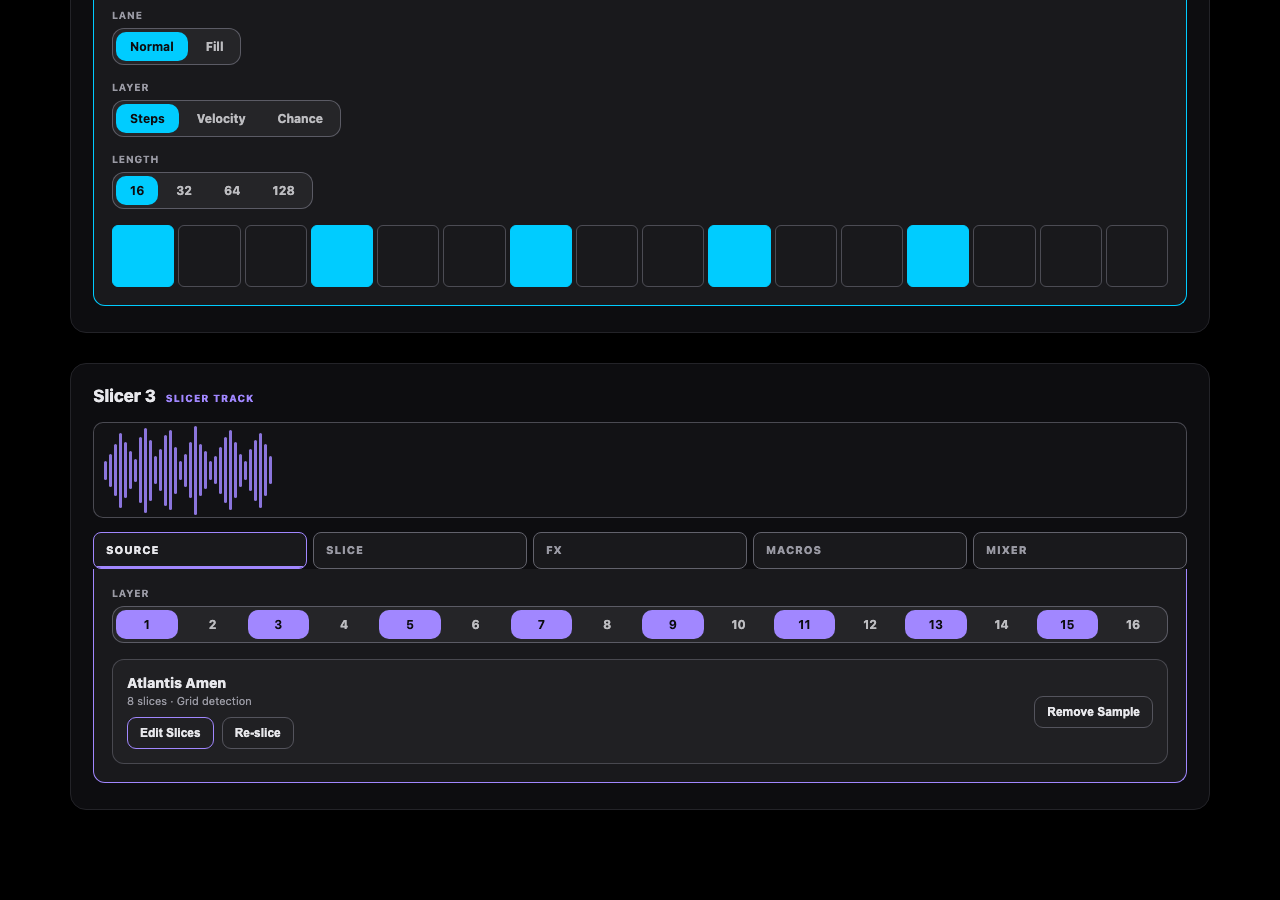
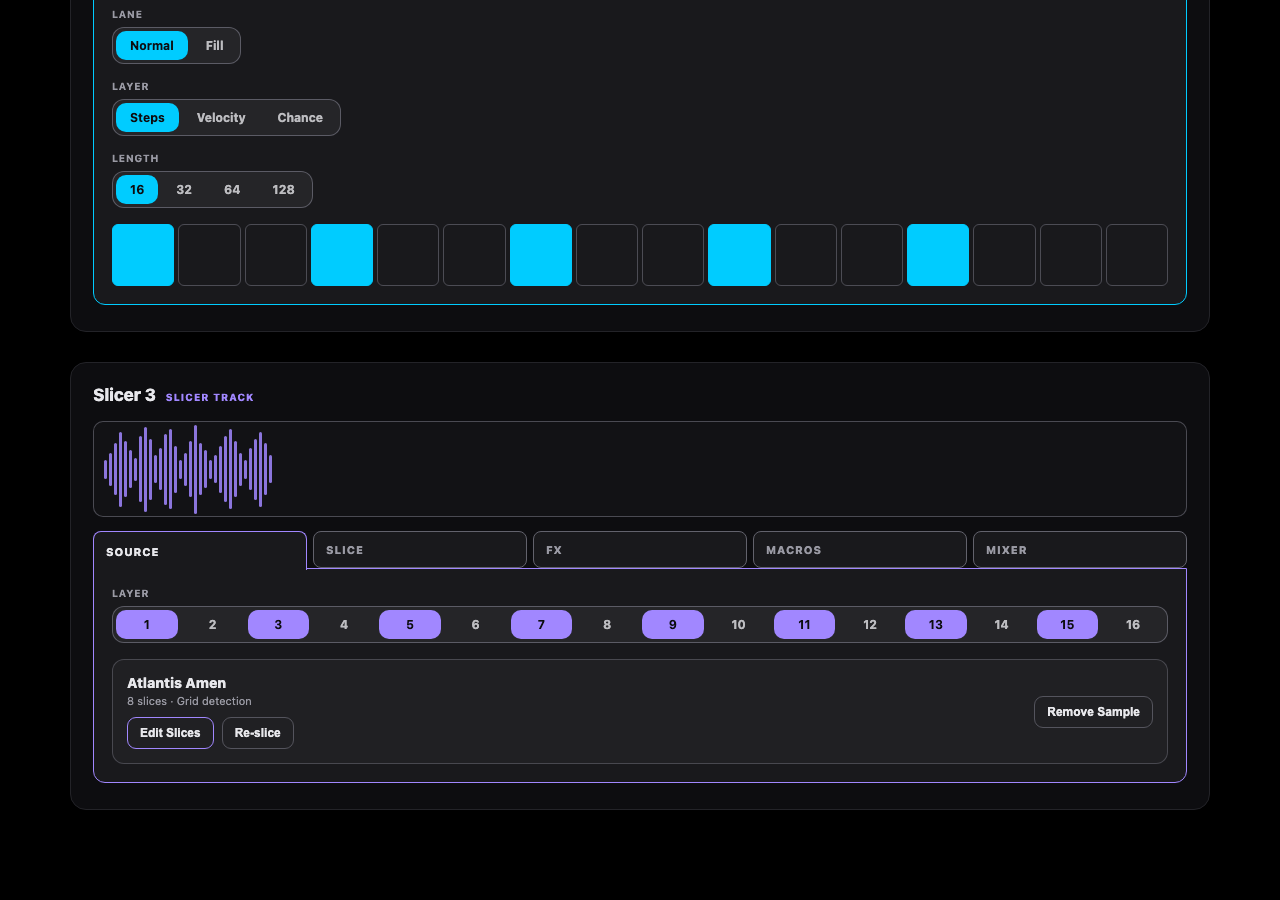
docs(track-view-ia): tab-well connection variants per owner feedback
The strip/well gap read as two artifacts. Variant A is now the seamless
folder-tab form (selected tab's outline flows into the well border, no
line under the active tab); Variant B moves the segmented row inside the
well so no gap exists; new Variant C keeps the original pill look with
the gap but gives the well a full-strength accent border so pill and
container read as one system.

diff --git a/docs/roadmap/track-view-ia/prototypes/08-unified-tab-well-C.html b/docs/roadmap/track-view-ia/prototypes/08-unified-tab-well-C.html
@@ -3,7 +3,7 @@
 <head>
 <meta charset="utf-8">
 <meta name="viewport" content="width=device-width, initial-scale=1">
-<title>Unified Tab Well — Variant B (segmented-primary)</title>
+<title>Unified Tab Well — Variant C (pill tabs + full-accent well border)</title>
 <style>
   :root {
     --ground:#0d0d10; --border:#62626c; --text:#e8e8ec; --muted:#9a9aa4;
@@ -26,24 +26,28 @@
   .surface-head .name { font-size:17px; font-weight:800; }
   .surface-head .kind { font-size:10px; letter-spacing:.1em; text-transform:uppercase; font-weight:800; color:var(--accent); }
 
-  /* primary section grammar in Variant B — solid-thumb segmented control
-     (StudioSegmentedControl), NOT underline tabs, rendered as a header row
-     INSIDE the well so no strip/container gap exists at all. This is the
-     only thing that differs from Variant A. */
-  .tabstrip.seg { display:flex; gap:4px; padding:3px; background:var(--fill1); border:1.5px solid rgba(98,98,108,.9); border-radius:12px; margin-bottom:16px; }
-  .tabstrip.seg .schip { flex:1; border:none; background:transparent; color:rgba(232,232,236,.78); font:inherit; font-size:11px; font-weight:800; letter-spacing:.05em; text-transform:uppercase; padding:10px 8px; border-radius:10px; cursor:pointer; display:flex; align-items:center; justify-content:center; gap:6px; white-space:nowrap; }
-  .tabstrip.seg .schip.active { background:var(--accent); color:var(--ground); }
-  .tabstrip.seg .schip .mini-badge { font-size:9px; font-weight:800; padding:2px 5px; border-radius:6px; background:var(--accent); color:var(--ground); text-transform:none; letter-spacing:0; }
-  .tabstrip.seg .schip.active .mini-badge { background:var(--ground); color:var(--accent); }
+  /* underline tab grammar — StudioSlotTabButton (pill look kept; the gap
+     to the well below is intentional in this variant) */
+  .tabstrip { display:flex; gap:6px; margin-bottom:5px; }
+  .tab { flex:1; background:var(--fill1); border:1px solid var(--border); border-radius:8px; padding:0; cursor:pointer; color:var(--muted); font:inherit; overflow:hidden; text-align:left; }
+  .tab .row { display:flex; align-items:center; gap:8px; padding:10px 12px; }
+  .tab .lbl { font-size:11px; letter-spacing:.08em; font-weight:800; text-transform:uppercase; color:var(--muted); }
+  .tab .underline { height:2px; background:transparent; }
+  .tab.active { border-color:var(--accent); border-width:1.5px; }
+  .tab.active .lbl { color:var(--text); }
+  .tab.active .underline { background:var(--accent); }
+  .tab .badge { font-size:10px; font-weight:800; padding:3px 7px; border-radius:8px; background:var(--accent); color:var(--ground); }
 
-  /* well — StudioTabWell: with the segmented row inside it there is nothing
-     to dock under, so the well is a complete accent-stroked container. */
-  .well { background:var(--fill1); border:1.5px solid var(--accent); border-radius:12px; padding:18px; }
+  /* well — StudioTabWell: square top, docks flush under tab strip.
+     Variant C: the border is the surface accent at FULL strength (no ghost
+     opacity) so the selected pill and the container read as one system —
+     an outline, never a fill (canon Rule 12). */
+  .well { background:var(--fill1); border:1.5px solid var(--accent); border-radius:0 0 12px 12px; padding:18px; }
   .well-pane[hidden] { display:none; }
 
   .stub { border:1.5px dashed var(--border); border-radius:10px; padding:26px; text-align:center; color:var(--muted); font-size:12px; letter-spacing:.02em; }
 
-  /* secondary selectors — StudioSegmentedControl (solid-thumb chips), identical to Variant A */
+  /* secondary selectors — StudioSegmentedControl (solid-thumb chips) */
   .seg-block { margin-bottom:16px; }
   .seg-block:last-child { margin-bottom:0; }
   .seg-label { font-size:10px; letter-spacing:.08em; text-transform:uppercase; color:var(--muted); font-weight:700; margin-bottom:7px; }
@@ -95,8 +99,8 @@
 </head>
 <body>
 <div class="page">
-  <h1>Unified tab-well — Variant B: segmented-primary ("toggle-ish")</h1>
-  <p class="sub">tab-unification-and-canon-creep.md — primary sections as StudioSegmentedControl solid-thumb chips instead of underline tabs, rendered as a header row INSIDE the well so no strip/container gap exists. Same three surfaces, same content in every pane as 08-unified-tab-well-A.html; only the primary-selector grammar differs.</p>
+  <h1>Unified tab-well — Variant C: pill tabs, full-accent well border</h1>
+  <p class="sub">Owner-feedback form (2): the StudioSlotTabButton pill look is kept (gap/seam retained between the selected pill and the well edge), but the well border carries the surface accent at FULL strength — same highlight as the selected pill — so pill + container read as one system. Outline colour only; no accent fill (canon Rule 12 bans fills, not outlines). Compare 08-unified-tab-well-A.html (seamless folder-tab) and 08-unified-tab-well-B.html (segmented row inside the well).</p>
 
   <div class="statebar">
     <b>Jump to pane</b>
@@ -104,19 +108,19 @@
     <button onclick="setPrototypeState('mono:sound')">mono:sound</button>
     <button onclick="setPrototypeState('slicer:slice')">slicer:slice</button>
     <a class="swap" href="08-unified-tab-well-A.html">→ Variant A</a>
-    <a class="swap" style="margin-left:8px" href="08-unified-tab-well-C.html">→ Variant C</a>
+    <a class="swap" style="margin-left:8px" href="08-unified-tab-well-B.html">→ Variant B</a>
   </div>
 
   <!-- (a) AUDIO INPUT -->
   <section class="surface" id="surface-audio" style="--accent:var(--green)">
     <div class="surface-head"><span class="name">Audio Input 10</span><span class="kind">Audio Input</span></div>
+    <div class="tabstrip">
+      <button class="tab active" data-tab="source" onclick="selectTab('surface-audio','source')"><div class="row"><span class="lbl">Source</span></div><div class="underline"></div></button>
+      <button class="tab" data-tab="fx" onclick="selectTab('surface-audio','fx')"><div class="row"><span class="lbl">FX</span></div><div class="underline"></div></button>
+      <button class="tab" data-tab="macros" onclick="selectTab('surface-audio','macros')"><div class="row"><span class="lbl">Macros</span></div><div class="underline"></div></button>
+      <button class="tab" data-tab="mixer" onclick="selectTab('surface-audio','mixer')"><div class="row"><span class="lbl">Mixer</span></div><div class="underline"></div></button>
+    </div>
     <div class="well">
-      <div class="tabstrip seg">
-        <button class="schip active" data-tab="source" onclick="selectTab('surface-audio','source')">Source</button>
-        <button class="schip" data-tab="fx" onclick="selectTab('surface-audio','fx')">FX</button>
-        <button class="schip" data-tab="macros" onclick="selectTab('surface-audio','macros')">Macros</button>
-        <button class="schip" data-tab="mixer" onclick="selectTab('surface-audio','mixer')">Mixer</button>
-      </div>
       <div class="well-pane" data-pane="source">
         <div class="seg-block">
           <div class="seg-label">Mode</div>
@@ -173,14 +177,14 @@
   <!-- (b) MONO -->
   <section class="surface" id="surface-mono" style="--accent:var(--cyan)">
     <div class="surface-head"><span class="name">Mono 8</span><span class="kind">Mono Track</span></div>
+    <div class="tabstrip">
+      <button class="tab active" data-tab="steps" onclick="selectTab('surface-mono','steps')"><div class="row"><span class="lbl">Steps / Clip</span><span class="badge">Clip</span></div><div class="underline"></div></button>
+      <button class="tab" data-tab="sound" onclick="selectTab('surface-mono','sound')"><div class="row"><span class="lbl">Sound</span><span class="badge">Empty</span></div><div class="underline"></div></button>
+      <button class="tab" data-tab="fx" onclick="selectTab('surface-mono','fx')"><div class="row"><span class="lbl">FX</span><span class="badge">Insert</span></div><div class="underline"></div></button>
+      <button class="tab" data-tab="macros" onclick="selectTab('surface-mono','macros')"><div class="row"><span class="lbl">Macros</span><span class="badge">Empty</span></div><div class="underline"></div></button>
+      <button class="tab" data-tab="mixer" onclick="selectTab('surface-mono','mixer')"><div class="row"><span class="lbl">Mixer</span><span class="badge">Master</span></div><div class="underline"></div></button>
+    </div>
     <div class="well">
-      <div class="tabstrip seg">
-        <button class="schip active" data-tab="steps" onclick="selectTab('surface-mono','steps')">Steps / Clip<span class="mini-badge">Clip</span></button>
-        <button class="schip" data-tab="sound" onclick="selectTab('surface-mono','sound')">Sound<span class="mini-badge">Empty</span></button>
-        <button class="schip" data-tab="fx" onclick="selectTab('surface-mono','fx')">FX<span class="mini-badge">Insert</span></button>
-        <button class="schip" data-tab="macros" onclick="selectTab('surface-mono','macros')">Macros<span class="mini-badge">Empty</span></button>
-        <button class="schip" data-tab="mixer" onclick="selectTab('surface-mono','mixer')">Mixer<span class="mini-badge">Master</span></button>
-      </div>
       <div class="well-pane" data-pane="steps">
         <div class="clip-hdr">
           <span class="badge-lg">Clip</span>
@@ -232,14 +236,14 @@
 
     <div class="waveform" id="waveform"></div>
 
+    <div class="tabstrip">
+      <button class="tab active" data-tab="source" onclick="selectTab('surface-slicer','source')"><div class="row"><span class="lbl">Source</span></div><div class="underline"></div></button>
+      <button class="tab" data-tab="slice" onclick="selectTab('surface-slicer','slice')"><div class="row"><span class="lbl">Slice</span></div><div class="underline"></div></button>
+      <button class="tab" data-tab="fx" onclick="selectTab('surface-slicer','fx')"><div class="row"><span class="lbl">FX</span></div><div class="underline"></div></button>
+      <button class="tab" data-tab="macros" onclick="selectTab('surface-slicer','macros')"><div class="row"><span class="lbl">Macros</span></div><div class="underline"></div></button>
+      <button class="tab" data-tab="mixer" onclick="selectTab('surface-slicer','mixer')"><div class="row"><span class="lbl">Mixer</span></div><div class="underline"></div></button>
+    </div>
     <div class="well">
-      <div class="tabstrip seg">
-        <button class="schip active" data-tab="source" onclick="selectTab('surface-slicer','source')">Source</button>
-        <button class="schip" data-tab="slice" onclick="selectTab('surface-slicer','slice')">Slice</button>
-        <button class="schip" data-tab="fx" onclick="selectTab('surface-slicer','fx')">FX</button>
-        <button class="schip" data-tab="macros" onclick="selectTab('surface-slicer','macros')">Macros</button>
-        <button class="schip" data-tab="mixer" onclick="selectTab('surface-slicer','mixer')">Mixer</button>
-      </div>
       <div class="well-pane" data-pane="source">
         <div class="seg-block">
           <div class="seg-label">Layer</div>
@@ -268,7 +272,7 @@
 <script>
   function selectTab(surfaceId, tabName) {
     const surface = document.getElementById(surfaceId);
-    surface.querySelectorAll('.tabstrip.seg .schip').forEach(el => {
+    surface.querySelectorAll(':scope > .tabstrip > .tab, :scope > .segcontrol.wide.primary > .segchip').forEach(el => {
       el.classList.toggle('active', el.dataset.tab === tabName);
     });
     surface.querySelectorAll(':scope .well-pane').forEach(el => {

diff --git a/docs/roadmap/track-view-ia/prototypes/08-unified-tab-well-A.html b/docs/roadmap/track-view-ia/prototypes/08-unified-tab-well-A.html
@@ -8,6 +8,9 @@
   :root {
     --ground:#0d0d10; --border:#62626c; --text:#e8e8ec; --muted:#9a9aa4;
     --fill1: rgba(255,255,255,.05);
+    /* the well fill flattened to a solid colour (ground + one 5% white step)
+       so the active folder tab can opaquely cover the well's top border */
+    --well:#19191c;
     --green:#4ceb85; --cyan:#00ccff; --violet:#a187ff;
   }
   * { box-sizing:border-box; }
@@ -26,19 +29,22 @@
   .surface-head .name { font-size:17px; font-weight:800; }
   .surface-head .kind { font-size:10px; letter-spacing:.1em; text-transform:uppercase; font-weight:800; color:var(--accent); }
 
-  /* underline tab grammar — StudioSlotTabButton */
-  .tabstrip { display:flex; gap:6px; }
-  .tab { flex:1; background:var(--fill1); border:1px solid var(--border); border-radius:8px; padding:0; cursor:pointer; color:var(--muted); font:inherit; overflow:hidden; text-align:left; }
-  .tab .row { display:flex; align-items:center; gap:8px; padding:10px 12px; }
+  /* folder-tab grammar — the selected tab's outline flows SEAMLESSLY into the
+     well border: the well's top border runs left of the tab, up and around
+     the selected tab's sides and top, back down, and continues right. No
+     line under the active tab; its interior is continuous with the well.
+     Unselected tabs keep the pill look, sitting above the border line. */
+  .tabstrip { display:flex; gap:6px; position:relative; z-index:2; }
+  .tab { flex:1; background:var(--fill1); border:1px solid var(--border); border-radius:8px; padding:0; cursor:pointer; color:var(--muted); font:inherit; text-align:left; }
+  .tab .row { display:flex; align-items:center; gap:8px; padding:11px 12px; }
   .tab .lbl { font-size:11px; letter-spacing:.08em; font-weight:800; text-transform:uppercase; color:var(--muted); }
-  .tab .underline { height:2px; background:transparent; }
-  .tab.active { border-color:var(--accent); border-width:1.5px; }
+  .tab.active { background:var(--well); border:1.5px solid var(--accent); border-bottom:none; border-radius:8px 8px 0 0; margin-bottom:-1.5px; }
   .tab.active .lbl { color:var(--text); }
-  .tab.active .underline { background:var(--accent); }
   .tab .badge { font-size:10px; font-weight:800; padding:3px 7px; border-radius:8px; background:var(--accent); color:var(--ground); }
 
-  /* well — StudioTabWell: square top, docks flush under tab strip */
-  .well { background:var(--fill1); border:1.5px solid var(--accent); border-top:none; border-radius:0 0 12px 12px; padding:18px; }
+  /* well — StudioTabWell: square top, the selected tab docks INTO its top
+     border (folder-tab connection), 12px bottom radius, accent stroke */
+  .well { background:var(--well); border:1.5px solid var(--accent); border-radius:0 0 12px 12px; padding:18px; position:relative; z-index:1; }
   .well-pane[hidden] { display:none; }
 
   .stub { border:1.5px dashed var(--border); border-radius:10px; padding:26px; text-align:center; color:var(--muted); font-size:12px; letter-spacing:.02em; }
@@ -95,8 +101,8 @@
 </head>
 <body>
 <div class="page">
-  <h1>Unified tab-well — Variant A: underline tabs</h1>
-  <p class="sub">tab-unification-and-canon-creep.md — canonical StudioSlotTabButton grammar (eyebrow caps, 2px accent underline, ghost-stroke, optional solid badge) + one StudioTabWell per surface. Compare against 08-unified-tab-well-B.html (segmented-primary variant).</p>
+  <h1>Unified tab-well — Variant A: seamless folder tabs</h1>
+  <p class="sub">tab-unification-and-canon-creep.md + owner-feedback form (1): canonical StudioSlotTabButton grammar (eyebrow caps, optional solid badge), with the selected tab's outline flowing seamlessly into the StudioTabWell border — no line under the active tab; its interior is continuous with the well. Compare 08-unified-tab-well-B.html (segmented row inside the well) and 08-unified-tab-well-C.html (pill tabs + full-accent well border).</p>
 
   <div class="statebar">
     <b>Jump to pane</b>
@@ -104,16 +110,17 @@
     <button onclick="setPrototypeState('mono:sound')">mono:sound</button>
     <button onclick="setPrototypeState('slicer:slice')">slicer:slice</button>
     <a class="swap" href="08-unified-tab-well-B.html">→ Variant B</a>
+    <a class="swap" style="margin-left:8px" href="08-unified-tab-well-C.html">→ Variant C</a>
   </div>
 
   <!-- (a) AUDIO INPUT -->
   <section class="surface" id="surface-audio" style="--accent:var(--green)">
     <div class="surface-head"><span class="name">Audio Input 10</span><span class="kind">Audio Input</span></div>
     <div class="tabstrip">
-      <button class="tab active" data-tab="source" onclick="selectTab('surface-audio','source')"><div class="row"><span class="lbl">Source</span></div><div class="underline"></div></button>
-      <button class="tab" data-tab="fx" onclick="selectTab('surface-audio','fx')"><div class="row"><span class="lbl">FX</span></div><div class="underline"></div></button>
-      <button class="tab" data-tab="macros" onclick="selectTab('surface-audio','macros')"><div class="row"><span class="lbl">Macros</span></div><div class="underline"></div></button>
-      <button class="tab" data-tab="mixer" onclick="selectTab('surface-audio','mixer')"><div class="row"><span class="lbl">Mixer</span></div><div class="underline"></div></button>
+      <button class="tab active" data-tab="source" onclick="selectTab('surface-audio','source')"><div class="row"><span class="lbl">Source</span></div></button>
+      <button class="tab" data-tab="fx" onclick="selectTab('surface-audio','fx')"><div class="row"><span class="lbl">FX</span></div></button>
+      <button class="tab" data-tab="macros" onclick="selectTab('surface-audio','macros')"><div class="row"><span class="lbl">Macros</span></div></button>
+      <button class="tab" data-tab="mixer" onclick="selectTab('surface-audio','mixer')"><div class="row"><span class="lbl">Mixer</span></div></button>
     </div>
     <div class="well">
       <div class="well-pane" data-pane="source">
@@ -173,11 +180,11 @@
   <section class="surface" id="surface-mono" style="--accent:var(--cyan)">
     <div class="surface-head"><span class="name">Mono 8</span><span class="kind">Mono Track</span></div>
     <div class="tabstrip">
-      <button class="tab active" data-tab="steps" onclick="selectTab('surface-mono','steps')"><div class="row"><span class="lbl">Steps / Clip</span><span class="badge">Clip</span></div><div class="underline"></div></button>
-      <button class="tab" data-tab="sound" onclick="selectTab('surface-mono','sound')"><div class="row"><span class="lbl">Sound</span><span class="badge">Empty</span></div><div class="underline"></div></button>
-      <button class="tab" data-tab="fx" onclick="selectTab('surface-mono','fx')"><div class="row"><span class="lbl">FX</span><span class="badge">Insert</span></div><div class="underline"></div></button>
-      <button class="tab" data-tab="macros" onclick="selectTab('surface-mono','macros')"><div class="row"><span class="lbl">Macros</span><span class="badge">Empty</span></div><div class="underline"></div></button>
-      <button class="tab" data-tab="mixer" onclick="selectTab('surface-mono','mixer')"><div class="row"><span class="lbl">Mixer</span><span class="badge">Master</span></div><div class="underline"></div></button>
+      <button class="tab active" data-tab="steps" onclick="selectTab('surface-mono','steps')"><div class="row"><span class="lbl">Steps / Clip</span><span class="badge">Clip</span></div></button>
+      <button class="tab" data-tab="sound" onclick="selectTab('surface-mono','sound')"><div class="row"><span class="lbl">Sound</span><span class="badge">Empty</span></div></button>
+      <button class="tab" data-tab="fx" onclick="selectTab('surface-mono','fx')"><div class="row"><span class="lbl">FX</span><span class="badge">Insert</span></div></button>
+      <button class="tab" data-tab="macros" onclick="selectTab('surface-mono','macros')"><div class="row"><span class="lbl">Macros</span><span class="badge">Empty</span></div></button>
+      <button class="tab" data-tab="mixer" onclick="selectTab('surface-mono','mixer')"><div class="row"><span class="lbl">Mixer</span><span class="badge">Master</span></div></button>
     </div>
     <div class="well">
       <div class="well-pane" data-pane="steps">
@@ -232,11 +239,11 @@
     <div class="waveform" id="waveform"></div>
 
     <div class="tabstrip">
-      <button class="tab active" data-tab="source" onclick="selectTab('surface-slicer','source')"><div class="row"><span class="lbl">Source</span></div><div class="underline"></div></button>
-      <button class="tab" data-tab="slice" onclick="selectTab('surface-slicer','slice')"><div class="row"><span class="lbl">Slice</span></div><div class="underline"></div></button>
-      <button class="tab" data-tab="fx" onclick="selectTab('surface-slicer','fx')"><div class="row"><span class="lbl">FX</span></div><div class="underline"></div></button>
-      <button class="tab" data-tab="macros" onclick="selectTab('surface-slicer','macros')"><div class="row"><span class="lbl">Macros</span></div><div class="underline"></div></button>
-      <button class="tab" data-tab="mixer" onclick="selectTab('surface-slicer','mixer')"><div class="row"><span class="lbl">Mixer</span></div><div class="underline"></div></button>
+      <button class="tab active" data-tab="source" onclick="selectTab('surface-slicer','source')"><div class="row"><span class="lbl">Source</span></div></button>
+      <button class="tab" data-tab="slice" onclick="selectTab('surface-slicer','slice')"><div class="row"><span class="lbl">Slice</span></div></button>
+      <button class="tab" data-tab="fx" onclick="selectTab('surface-slicer','fx')"><div class="row"><span class="lbl">FX</span></div></button>
+      <button class="tab" data-tab="macros" onclick="selectTab('surface-slicer','macros')"><div class="row"><span class="lbl">Macros</span></div></button>
+      <button class="tab" data-tab="mixer" onclick="selectTab('surface-slicer','mixer')"><div class="row"><span class="lbl">Mixer</span></div></button>
     </div>
     <div class="well">
       <div class="well-pane" data-pane="source">

diff --git a/docs/roadmap/track-view-ia/prototypes/README.md b/docs/roadmap/track-view-ia/prototypes/README.md
@@ -50,17 +50,28 @@ sharing one `StudioTabWell` (square top corners docking under the tab strip,
 with secondary selectors (MODE, LANE/LAYER/LENGTH, the slicer layer row)
 living inside the well. Off-path tabs (FX/Macros/Mixer, Sound, Slice) are
 dashed stubs per the stub-treatment convention.
-- `08-unified-tab-well-A.html` — **Variant A**: primary sections as
-  `StudioSlotTabButton` underline tabs (all-caps eyebrow, 2px accent
-  underline, ghost-stroke outline, optional solid status badge — mono's five
-  tabs carry real-state badges: Clip/Empty/Insert/Empty/Master). Boldest
-  conformance to the accepted spec, least churn.
-- `08-unified-tab-well-B.html` — **Variant B**: identical surfaces and well,
-  but primary sections render as a full-width `StudioSegmentedControl`
-  solid-thumb pill (the "toggle-ish" grammar) instead of underline tabs;
-  mono's status badges become small inline chips inside each segment.
-  Diverges from the accepted spec — shown because the owner is "not set on
-  tabs".
+After the first render pass the owner flagged the strip/well GAP (selected
+tab floating above the well edge, reading as two artifacts); the three files
+now cover the three connection forms he asked to compare:
+- `08-unified-tab-well-A.html` — **Variant A, seamless folder tabs** (owner
+  form 1): `StudioSlotTabButton` grammar (all-caps eyebrow, optional solid
+  status badge — mono's five tabs carry real-state badges:
+  Clip/Empty/Insert/Empty/Master), with the selected tab's outline flowing
+  seamlessly into the well border: the well's top border runs left of the
+  tab, up and around its sides/top, back down, and continues right. No line
+  under the active tab; its interior is continuous with the well. Unselected
+  tabs stay pills above the border line.
+- `08-unified-tab-well-B.html` — **Variant B, segmented-primary**: primary
+  sections as a full-width `StudioSegmentedControl` solid-thumb pill (the
+  "toggle-ish" grammar) rendered as a header row INSIDE the well, so no
+  strip/container gap exists at all; mono's status badges become small
+  inline chips inside each segment. Diverges from the accepted spec — shown
+  because the owner is "not set on tabs".
+- `08-unified-tab-well-C.html` — **Variant C, pill + full-accent border**
+  (owner form 2): the original pill-tab look (2px accent underline, gap to
+  the well retained) but the well border carries the surface accent at full
+  strength so pill + container read as one system. Accent as outline only —
+  canon Rule 12 bans accent fills, not outlines.
 - States: `audio-input`, `mono-track`, `slicer-track` (each scrolls the
   matching surface into view — the page stacks all three, taller than one
   screenshot). Render:
@@ -72,7 +83,7 @@ dashed stubs per the stub-treatment convention.
     'mono-track=document.getElementById("surface-mono").scrollIntoView()' \
     'slicer-track=document.getElementById("surface-slicer").scrollIntoView()'
   ```
-  (swap `-A` for `-B` for the second file). Both files also expose
+  (swap `-A` for `-B` / `-C` for the other files). All files also expose
   `setPrototypeState("audio:fx")` / `"mono:sound"` / `"slicer:slice"` etc. to
   jump a given surface to an off-path stub pane, and cross-link to each other
   for direct A/B comparison in a browser.
